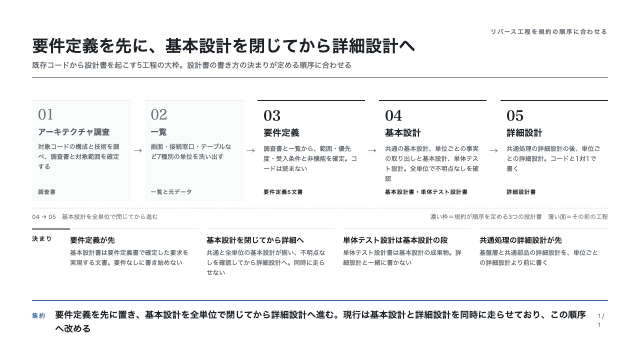
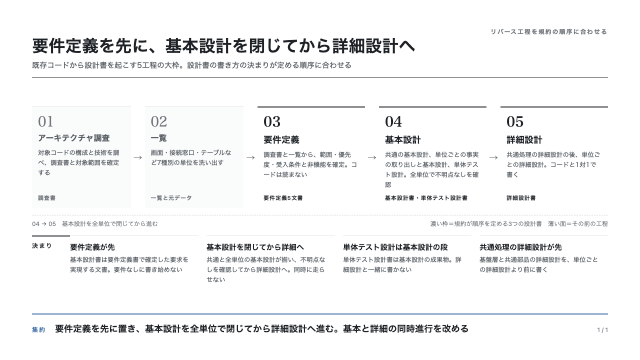
【修正】リバース工程スライドの集約の文を1行に収める
Claude-Session: https://claude.ai/code/session_013CyBW8dMhpUpSJNFYxMSyf

diff --git a/slides/リバース工程-要件定義から詳細設計の順序/解説スライド.html b/slides/リバース工程-要件定義から詳細設計の順序/解説スライド.html
@@ -6,7 +6,7 @@
 <title>要件定義を先に、基本設計を閉じてから詳細設計へ — リバース工程の順序</title>
 <style>
   /* 骨格B: 構造型（slide-design-system.md 参照） */
-  .pageno{ font: 12px/1.4 system-ui, sans-serif; color: var(--label); margin-left: auto; }
+  .pageno{ font: 12px/1.4 system-ui, sans-serif; color: var(--label); margin-left: auto; flex-shrink: 0; white-space: nowrap; }
   .figure{ flex: 1; display: flex; flex-direction: column; justify-content: center; min-height: 0; gap: 14px; }
   .flow{ display: flex; align-items: stretch; }
   .step{ flex: 1; display: flex; flex-direction: column; gap: 8px; border-top: 1px solid var(--faint); background: var(--surface-2); padding: 14px 12px 0; }
@@ -110,7 +110,7 @@
 
     <div class="conclusion">
       <span class="c-label">集約</span>
-      <span class="c-text">要件定義を先に置き、基本設計を全単位で閉じてから詳細設計へ進む。現行は基本設計と詳細設計を同時に走らせており、この順序へ改める</span>
+      <span class="c-text">要件定義を先に置き、基本設計を全単位で閉じてから詳細設計へ進む。基本と詳細の同時進行を改める</span>
       <span class="pageno">1 / 1</span>
     </div>
   </section>
